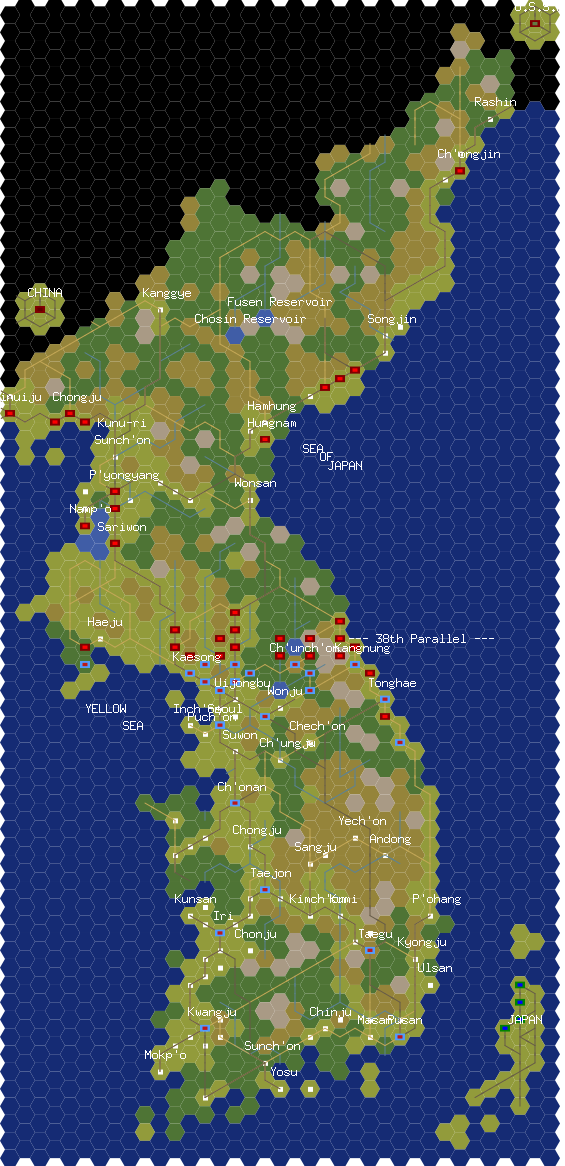
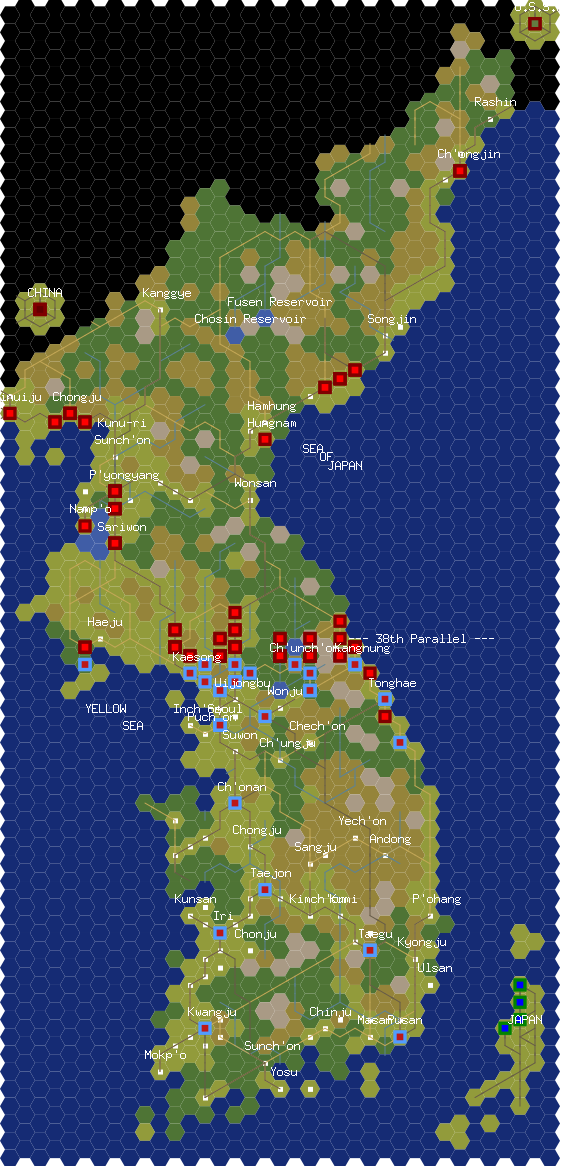
Update unit colors

diff --git a/main.go b/main.go
@@ -198,13 +198,53 @@ func drawRiversAndRoads(dc *gg.Context, allTileData [][]*fileio.TileData, mapHei
 
 func initGroupColorMap() map[int]GroupColor {
 	groupColorMap := make(map[int]GroupColor)
+	groupColorMap[0] = GroupColor{
+		OuterColor: color.RGBA{0, 107, 189, 255}, // blue
+		InnerColor: color.RGBA{222, 0, 41, 255},  // red
+	}
+	groupColorMap[5] = GroupColor{
+		OuterColor: color.RGBA{165, 132, 66, 255},  // brown
+		InnerColor: color.RGBA{247, 247, 247, 255}, // white
+	}
+	groupColorMap[6] = GroupColor{
+		OuterColor: color.RGBA{165, 132, 66, 255}, // brown
+		InnerColor: color.RGBA{0, 0, 255, 255},    // blue
+	}
+	groupColorMap[7] = GroupColor{
+		OuterColor: color.RGBA{165, 132, 66, 255}, // brown
+		InnerColor: color.RGBA{0, 132, 0, 255},    // green
+	}
+	groupColorMap[8] = GroupColor{
+		OuterColor: color.RGBA{165, 132, 66, 255}, // brown
+		InnerColor: color.RGBA{0, 0, 107, 255},    // dark blue
+	}
+	groupColorMap[9] = GroupColor{
+		OuterColor: color.RGBA{165, 132, 66, 255}, // brown
+		InnerColor: color.RGBA{0, 0, 0, 255},      // black
+	}
 	groupColorMap[10] = GroupColor{
 		OuterColor: color.RGBA{173, 173, 173, 255}, // gray
 		InnerColor: color.RGBA{239, 239, 239, 255}, // white
 	}
+	groupColorMap[11] = GroupColor{
+		OuterColor: color.RGBA{173, 173, 173, 255}, // gray
+		InnerColor: color.RGBA{0, 0, 0, 255},       // black
+	}
 	groupColorMap[12] = GroupColor{
 		OuterColor: color.RGBA{173, 173, 173, 255}, // gray
 		InnerColor: color.RGBA{231, 239, 247, 255}, // light blue
+	}
+	groupColorMap[13] = GroupColor{
+		OuterColor: color.RGBA{173, 173, 173, 255}, // gray
+		InnerColor: color.RGBA{148, 165, 148, 255}, // green
+	}
+	groupColorMap[14] = GroupColor{
+		OuterColor: color.RGBA{173, 173, 173, 255}, // gray
+		InnerColor: color.RGBA{140, 8, 0, 255},     // red
+	}
+	groupColorMap[15] = GroupColor{
+		OuterColor: color.RGBA{24, 140, 24, 255},   // green
+		InnerColor: color.RGBA{198, 214, 181, 255}, // light green
 	}
 	groupColorMap[19] = GroupColor{
 		OuterColor: color.RGBA{0, 132, 0, 255}, // green
@@ -230,9 +270,21 @@ func initGroupColorMap() map[int]GroupColor {
 		OuterColor: color.RGBA{128, 0, 0, 255}, // maroon
 		InnerColor: color.RGBA{255, 0, 0, 255}, // red
 	}
+	groupColorMap[30] = GroupColor{
+		OuterColor: color.RGBA{247, 247, 247, 255}, // white
+		InnerColor: color.RGBA{123, 198, 255, 255}, // light blue
+	}
 	groupColorMap[31] = GroupColor{
 		OuterColor: color.RGBA{247, 247, 247, 255}, // white
 		InnerColor: color.RGBA{255, 255, 0, 255},   // yellow
+	}
+	groupColorMap[32] = GroupColor{
+		OuterColor: color.RGBA{247, 247, 247, 255}, // white
+		InnerColor: color.RGBA{255, 247, 0, 255},   // yellow
+	}
+	groupColorMap[33] = GroupColor{
+		OuterColor: color.RGBA{247, 247, 247, 255}, // white
+		InnerColor: color.RGBA{156, 189, 148, 255}, // green
 	}
 	groupColorMap[34] = GroupColor{
 		OuterColor: color.RGBA{247, 247, 247, 255}, // white
@@ -278,9 +330,122 @@ func initGroupColorMap() map[int]GroupColor {
 		OuterColor: color.RGBA{198, 181, 132, 255}, // tan
 		InnerColor: color.RGBA{255, 255, 0, 255},   // yellow
 	}
+	groupColorMap[45] = GroupColor{
+		OuterColor: color.RGBA{148, 165, 66, 255},  // light green
+		InnerColor: color.RGBA{189, 189, 189, 255}, // gray
+	}
+	groupColorMap[49] = GroupColor{
+		OuterColor: color.RGBA{148, 165, 66, 255},  // light green
+		InnerColor: color.RGBA{247, 247, 247, 255}, // white
+	}
+	groupColorMap[50] = GroupColor{
+		OuterColor: color.RGBA{132, 140, 66, 255},  // dark green
+		InnerColor: color.RGBA{247, 239, 115, 255}, // yellow
+	}
+	groupColorMap[51] = GroupColor{
+		OuterColor: color.RGBA{132, 140, 66, 255}, // dark green
+		InnerColor: color.RGBA{255, 0, 0, 255},    // red
+	}
+	groupColorMap[52] = GroupColor{
+		OuterColor: color.RGBA{132, 140, 66, 255}, // dark green
+		InnerColor: color.RGBA{0, 0, 255, 255},    // blue
+	}
+	groupColorMap[53] = GroupColor{
+		OuterColor: color.RGBA{132, 140, 66, 255},  // dark green
+		InnerColor: color.RGBA{123, 198, 255, 255}, // light blue
+	}
+	groupColorMap[54] = GroupColor{
+		OuterColor: color.RGBA{132, 140, 66, 255}, // dark green
+		InnerColor: color.RGBA{0, 0, 132, 255},    // dark blue
+	}
 	groupColorMap[55] = GroupColor{
 		OuterColor: color.RGBA{82, 156, 255, 255}, // light blue
 		InnerColor: color.RGBA{189, 24, 24, 255},  // red
+	}
+	groupColorMap[56] = GroupColor{
+		OuterColor: color.RGBA{82, 156, 255, 255},  // light blue
+		InnerColor: color.RGBA{239, 239, 239, 255}, // white
+	}
+	groupColorMap[57] = GroupColor{
+		OuterColor: color.RGBA{82, 156, 255, 255}, // light blue
+		InnerColor: color.RGBA{33, 123, 214, 255}, // blue
+	}
+	groupColorMap[58] = GroupColor{
+		OuterColor: color.RGBA{82, 156, 255, 255},  // light blue
+		InnerColor: color.RGBA{189, 222, 247, 255}, // light blue
+	}
+	groupColorMap[59] = GroupColor{
+		OuterColor: color.RGBA{82, 156, 255, 255}, // light blue
+		InnerColor: color.RGBA{8, 107, 181, 255},  // dark blue
+	}
+	groupColorMap[60] = GroupColor{
+		OuterColor: color.RGBA{189, 206, 189, 255}, // mint
+		InnerColor: color.RGBA{107, 107, 107, 255}, // gray
+	}
+	groupColorMap[61] = GroupColor{
+		OuterColor: color.RGBA{189, 206, 189, 255}, // mint
+		InnerColor: color.RGBA{247, 247, 247, 255}, // white
+	}
+	groupColorMap[62] = GroupColor{
+		OuterColor: color.RGBA{189, 206, 189, 255}, // mint
+		InnerColor: color.RGBA{156, 173, 66, 255},  // green
+	}
+	groupColorMap[63] = GroupColor{
+		OuterColor: color.RGBA{189, 206, 189, 255}, // mint
+		InnerColor: color.RGBA{255, 255, 156, 255}, // light yellow
+	}
+	groupColorMap[64] = GroupColor{
+		OuterColor: color.RGBA{189, 206, 189, 255}, // mint
+		InnerColor: color.RGBA{247, 189, 107, 255}, // orange
+	}
+	groupColorMap[65] = GroupColor{
+		OuterColor: color.RGBA{156, 123, 41, 255}, // light brown
+		InnerColor: color.RGBA{165, 99, 24, 255},  // brown
+	}
+	groupColorMap[66] = GroupColor{
+		OuterColor: color.RGBA{156, 123, 41, 255}, // light brown
+		InnerColor: color.RGBA{82, 132, 206, 255}, // blue
+	}
+	groupColorMap[67] = GroupColor{
+		OuterColor: color.RGBA{156, 123, 41, 255}, // light brown
+		InnerColor: color.RGBA{33, 148, 123, 255}, // turquoise
+	}
+	groupColorMap[68] = GroupColor{
+		OuterColor: color.RGBA{156, 123, 41, 255},  // light brown
+		InnerColor: color.RGBA{222, 214, 173, 255}, // beige
+	}
+	groupColorMap[69] = GroupColor{
+		OuterColor: color.RGBA{156, 123, 41, 255},  // light brown
+		InnerColor: color.RGBA{206, 189, 148, 255}, // light beige
+	}
+	groupColorMap[70] = GroupColor{
+		OuterColor: color.RGBA{148, 165, 148, 255}, // light gray
+		InnerColor: color.RGBA{247, 247, 247, 255}, // white
+	}
+	groupColorMap[71] = GroupColor{
+		OuterColor: color.RGBA{148, 165, 148, 255}, // light gray
+		InnerColor: color.RGBA{222, 206, 173, 255}, // beige
+	}
+	groupColorMap[72] = GroupColor{
+		// yellow outline
+		OuterColor: color.RGBA{148, 165, 148, 255}, // light gray
+		// original color is black, but to distinguish with index 73, use yellow outline color
+		InnerColor: color.RGBA{247, 239, 165, 255},
+		// InnerColor: color.RGBA{8, 16, 8, 255},  // black
+	}
+	groupColorMap[73] = GroupColor{
+		// white outline
+		OuterColor: color.RGBA{148, 165, 148, 255}, // light gray
+		InnerColor: color.RGBA{8, 16, 8, 255},      // black
+	}
+	groupColorMap[74] = GroupColor{
+		// white outline
+		OuterColor: color.RGBA{148, 165, 148, 255}, // light gray
+		InnerColor: color.RGBA{198, 231, 231, 255}, // light blue
+	}
+	groupColorMap[77] = GroupColor{
+		OuterColor: color.RGBA{107, 181, 90, 255},  // green
+		InnerColor: color.RGBA{231, 231, 123, 255}, // yellow
 	}
 	groupColorMap[90] = GroupColor{
 		OuterColor: color.RGBA{198, 24, 24, 255}, // red
@@ -302,13 +467,45 @@ func initGroupColorMap() map[int]GroupColor {
 		OuterColor: color.RGBA{198, 24, 24, 255}, // red
 		InnerColor: color.RGBA{16, 16, 16, 255},  // black
 	}
+	groupColorMap[95] = GroupColor{
+		OuterColor: color.RGBA{198, 181, 132, 255}, // beige
+		InnerColor: color.RGBA{148, 198, 140, 255}, // green
+	}
+	groupColorMap[96] = GroupColor{
+		OuterColor: color.RGBA{198, 181, 132, 255}, // beige
+		InnerColor: color.RGBA{30, 128, 200, 255},  // blue
+	}
+	groupColorMap[97] = GroupColor{
+		OuterColor: color.RGBA{198, 181, 132, 255}, // beige
+		InnerColor: color.RGBA{198, 222, 239, 255}, // light blue
+	}
+	groupColorMap[98] = GroupColor{
+		OuterColor: color.RGBA{198, 181, 132, 255}, // beige
+		InnerColor: color.RGBA{231, 222, 148, 255}, // yellow
+	}
 	groupColorMap[99] = GroupColor{
 		OuterColor: color.RGBA{198, 181, 132, 255}, // tan
 		InnerColor: color.RGBA{239, 222, 165, 255}, // light tan
 	}
+	groupColorMap[100] = GroupColor{
+		OuterColor: color.RGBA{0, 0, 0, 255}, // black
+		InnerColor: color.RGBA{0, 0, 0, 255}, // black
+	}
 	groupColorMap[101] = GroupColor{
 		OuterColor: color.RGBA{0, 0, 0, 255},    // black
 		InnerColor: color.RGBA{222, 0, 41, 255}, // red
+	}
+	groupColorMap[102] = GroupColor{
+		OuterColor: color.RGBA{0, 0, 0, 255},     // black
+		InnerColor: color.RGBA{107, 90, 74, 255}, // brown
+	}
+	groupColorMap[103] = GroupColor{
+		OuterColor: color.RGBA{0, 0, 0, 255},     // black
+		InnerColor: color.RGBA{90, 107, 90, 255}, // green
+	}
+	groupColorMap[104] = GroupColor{
+		OuterColor: color.RGBA{0, 0, 0, 255},      // black
+		InnerColor: color.RGBA{16, 107, 148, 255}, // blue
 	}
 	groupColorMap[105] = GroupColor{
 		OuterColor: color.RGBA{115, 115, 115, 255}, // gray
@@ -365,12 +562,12 @@ func drawUnits(dc *gg.Context, mapData *fileio.TOAWMapData) {
 		unitTeamMap[int(team)] = append(unitTeamMap[int(team)], fmt.Sprintf("%v (type: %v)", teamName, unitType))
 
 		outerColor := groupColorMap[int(team)].OuterColor
-		dc.DrawRectangle(imageX-(radius/2), imageY-(radius/3), radius, radius*2/3)
+		dc.DrawRectangle(imageX-(radius*2/3), imageY-(radius*2/3), radius*4/3, radius*4/3)
 		dc.SetRGB255(int(outerColor.R), int(outerColor.G), int(outerColor.B))
 		dc.Fill()
 
 		innerColor := groupColorMap[int(team)].InnerColor
-		dc.DrawRectangle(imageX-(radius/4), imageY-(radius/6), radius/2, radius*1/3)
+		dc.DrawRectangle(imageX-(radius*1/3), imageY-(radius*1/3), radius*2/3, radius*2/3)
 		dc.SetRGB255(int(innerColor.R), int(innerColor.G), int(innerColor.B))
 		dc.Fill()
 

diff --git a/fileio/TOAWScenario.go b/fileio/TOAWScenario.go
@@ -2,6 +2,7 @@ package fileio
 
 import (
 	"bytes"
+	"compress/gzip"
 	"encoding/binary"
 	"fmt"
 	"io"
@@ -105,6 +106,35 @@ func ReadTOAWScenario(filename string) (*TOAWMapData, error) {
 		log.Fatal("Failed to load map: ", err)
 		return nil, err
 	}
+
+	// If the game is a TOAW4 scenario, it will be compressed using Gzip
+	// The older games will have TOAC in the header
+	var gzipHeader [3]byte
+	_, err = io.ReadFull(inputFile, gzipHeader[:])
+	if err != nil {
+		return nil, err
+	}
+	// Reset file pointer
+	inputFile.Seek(0, 0)
+	// Gzip header: The magic number is 0x1f8band the compression method is 08 for DEFLATE
+	if gzipHeader[0] == 0x1f && gzipHeader[1] == 0x8b && gzipHeader[2] == 0x08 {
+		fmt.Println("Decompressing TOAW4 scenario")
+
+		decompressedFile, err := gzip.NewReader(inputFile)
+		if err != nil {
+			return nil, err
+		}
+		defer decompressedFile.Close()
+
+		decompressedFileContents, err := ioutil.ReadAll(decompressedFile)
+		if err != nil {
+			return nil, err
+		}
+
+		fmt.Println("Decompressed contents size: ", len(decompressedFileContents))
+		return nil, nil
+	}
+
 	fi, err := inputFile.Stat()
 	if err != nil {
 		log.Fatal(err)

diff --git a/README.md b/README.md
@@ -20,5 +20,6 @@ Example
 ```
 
 <div style="display:inline-block;">
-<img src="https://raw.githubusercontent.com/samuelyuan/TOAWMap/master/screenshots/korea50.png" alt="korea50" width="300" height="618" />
+<img src="https://raw.githubusercontent.com/samuelyuan/TOAWMap/master/screenshots/korea50.png" alt="korea50" width="145" height="300" />
+<img src="https://raw.githubusercontent.com/samuelyuan/TOAWMap/master/screenshots/manchuria.png" alt="manchuria" width="300" height="300" />
 </div>
